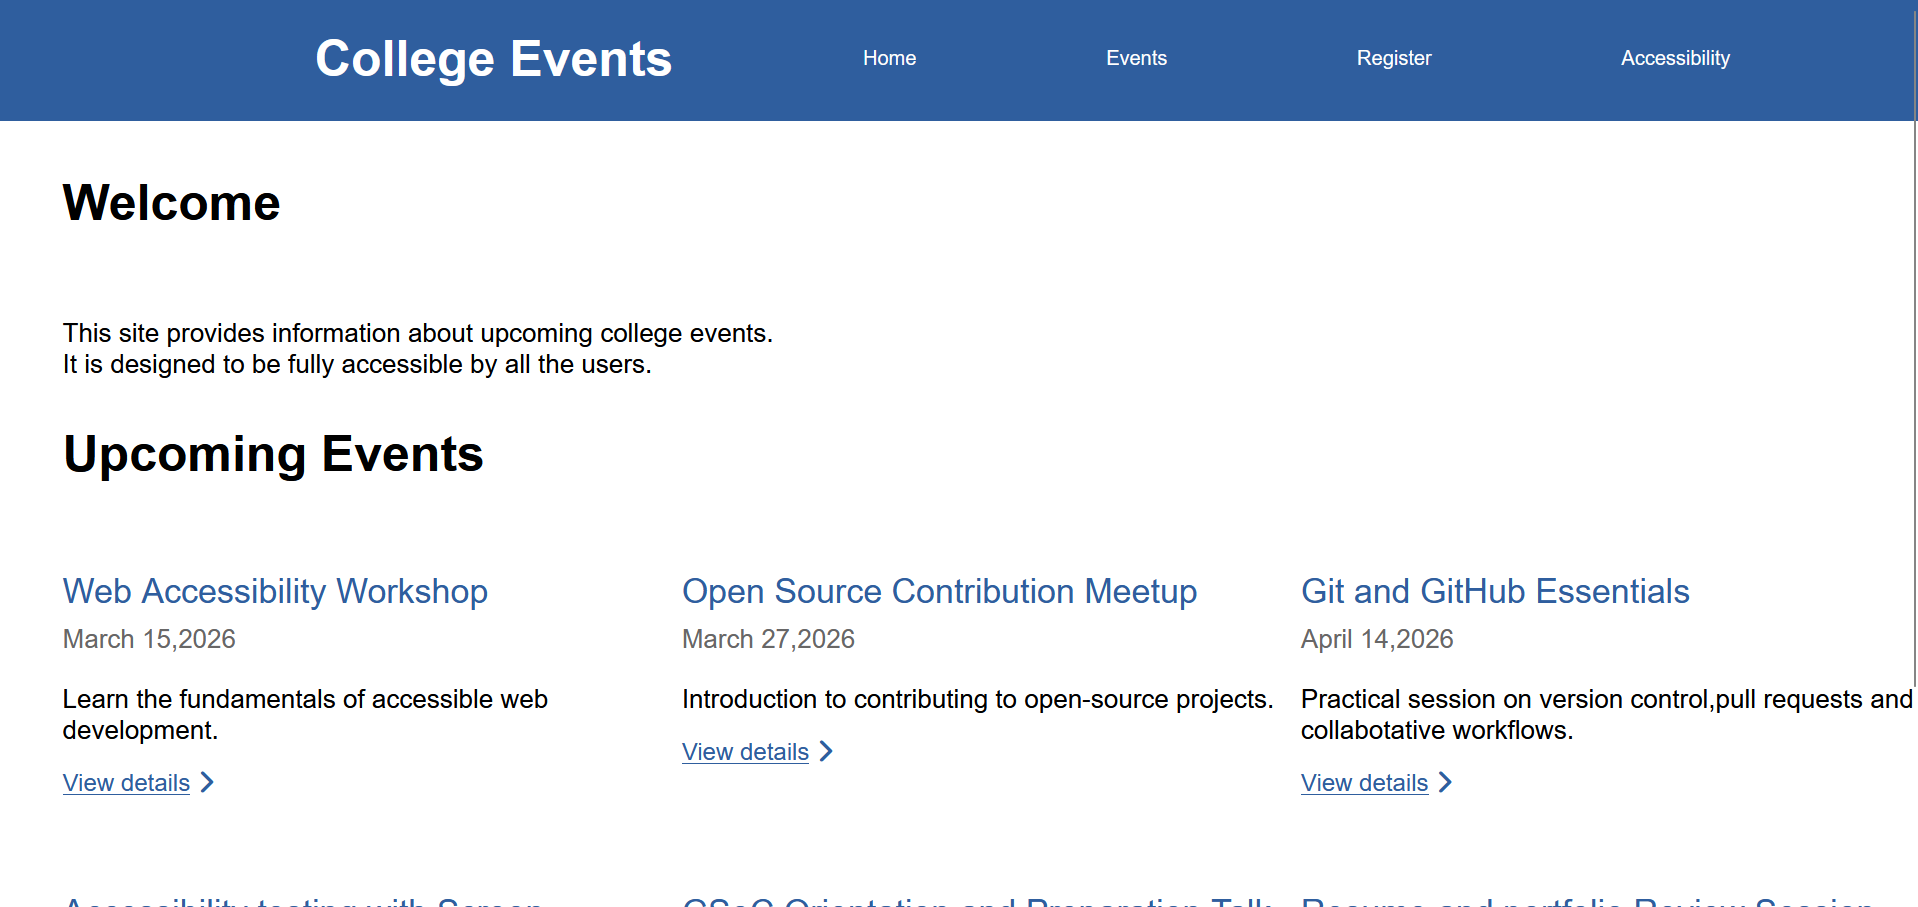
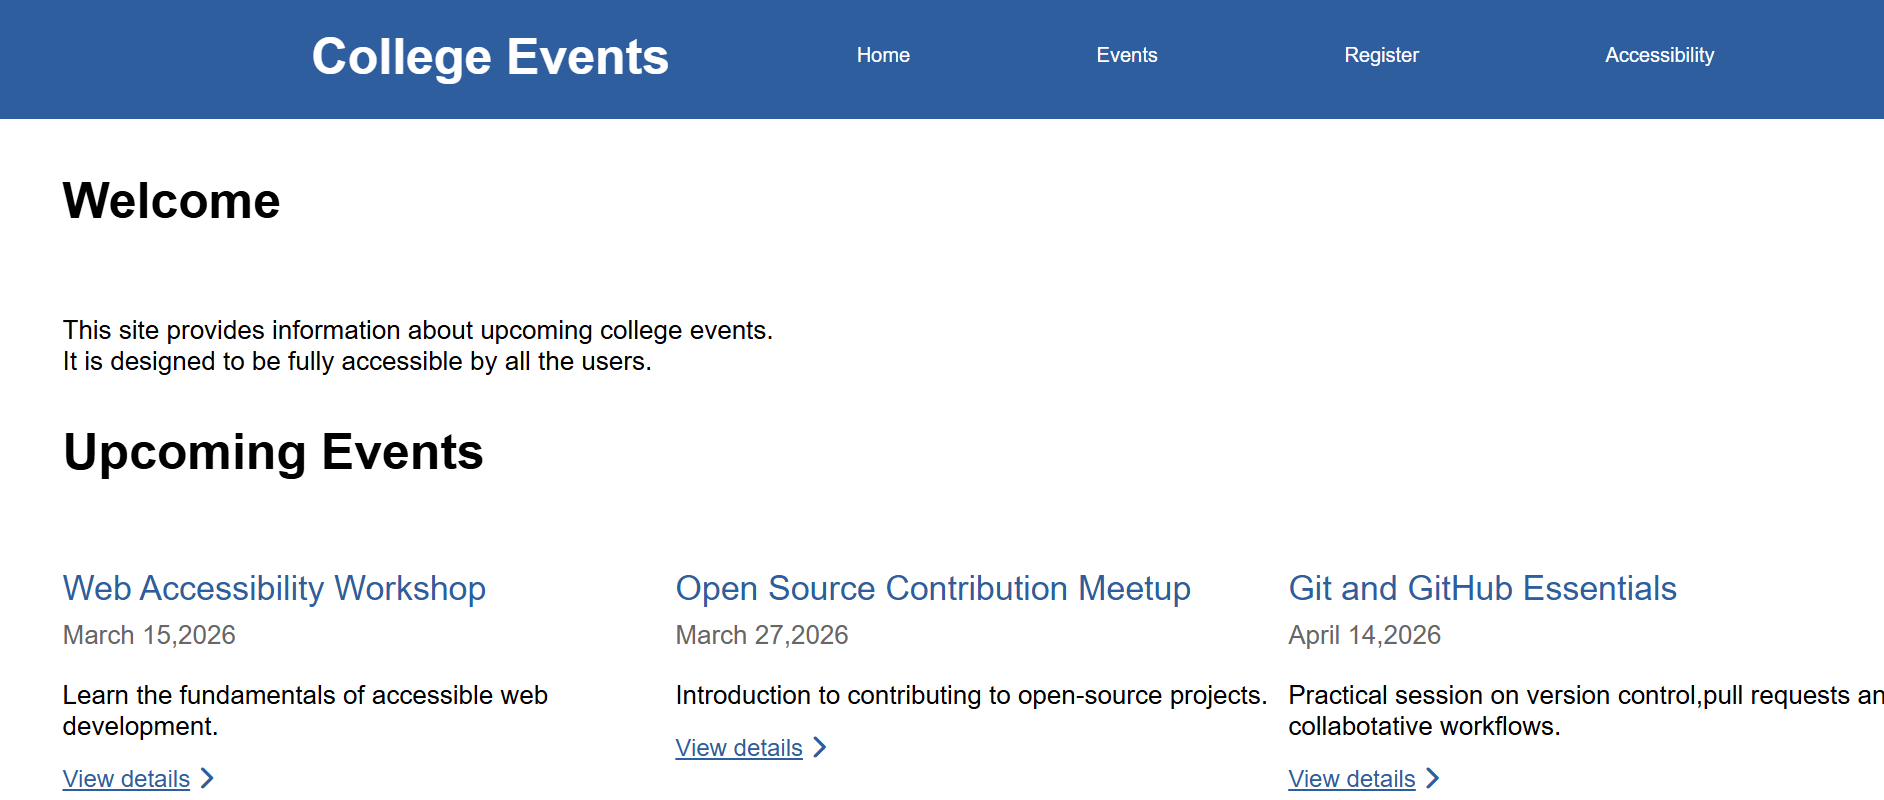
Updated Projects Section

diff --git a/index.html b/index.html
@@ -143,49 +143,123 @@
       <div class="skill">
         <h1>My Works</h1>
       </div>
-      <div class="list">
-        <div class="pro1">
-          <div class="pro-title1">
-            <h1>Personal Portfolio Website</h1>
+      <div class="project-list">
+        <div class="project1">
+          <div class="pro1"><img src="assets/project3.png" alt="Portfolio"> </div>
+          <div class="pro2">
+            <div class="pr"><i class="fa-solid fa-globe"></i>
+              <h2>Personal Portfolio Website</h2><br>
+            </div>
+            <p class="info1">A fully responsive portfolio with smooth animations and modern UI.</p><br>
+            <div class="ls">
+              <div class="ls1">
+                <p>HTML</p>
+              </div>
+              <div class="ls2">
+                <p>CSS</p>
+              </div>
+              <div class="ls3">
+                <p>JavaScript</p>
+              </div>
+            </div>
+            <div class="pro3">
+              <div class="demo1" ><a href="https://kulbakshiportfolio.netlify.app/" class=" border" target="_blank">Live Demo <i class="fa-solid fa-arrow-right"></i> </a></div>
+              <div class="demo2">
+                <a href="https://github.com/bakshikul/Personal-Portfolio.git" target="_blank"> <i class="fa-brands fa-github border"></i></a>
+                <a href="https://kulbakshiportfolio.netlify.app/" target="_blank"><i
+                    class="fa-solid fa-arrow-up-right-from-square border"></i></a>
+              </div>
+            </div>
+
           </div>
-          <div class="pro-title2">
-            <p>I created a fully responsive Personal Portfolio Website featuring <strong>Home, About, Education, Skills, and Contact </strong>sections with smooth scrolling effects, modern UI design. <p>
-          </div>
-          <div class="pro-title3"><img src="assets/project3.png" alt="Portfolio"></div>
-          <p>HTML CSS <strong>JavaScript</strong>
-          </p>
-          <a class="border" href="https://github.com/bakshikul/Personal-Portfolio.git" target="_blank"><button
-              class="border">GitHub</button></a>
         </div>
-        <div class="pro1">
-          <div class="pro-title1">
-            <h1>Tic Tac Toe Game</h1>
+        <div class="project1">
+          <div class="pro1"><img src="assets/project3.png" alt="Portfolio"> </div>
+          <div class="pro2">
+            <div class="pr"><i class="fa-solid fa-globe"></i>
+              <h2>Personal Portfolio Website</h2><br>
+            </div>
+            <p class="info1">A fully responsive portfolio with smooth animations and modern UI.</p><br>
+            <div class="ls">
+              <div class="ls1">
+                <p>HTML</p>
+              </div>
+              <div class="ls2">
+                <p>CSS</p>
+              </div>
+              <div class="ls3">
+                <p>JavaScript</p>
+              </div>
+            </div>
+            <div class="pro3">
+              <div class="demo1" ><a href="https://kulbakshiportfolio.netlify.app/" class=" border" target="_blank">Live Demo <i class="fa-solid fa-arrow-right"></i> </a></div>
+              <div class="demo2">
+                <a href="https://github.com/bakshikul/Personal-Portfolio.git" target="_blank"> <i class="fa-brands fa-github border"></i></a>
+                <a href="https://kulbakshiportfolio.netlify.app/" target="_blank"><i
+                    class="fa-solid fa-arrow-up-right-from-square border"></i></a>
+              </div>
+            </div>
+
           </div>
-          <div class="pro-title2">
-            <p>I have created a Tic-Tac-Toe game project using programming concepts and interactive game logic.
-              The project demonstrates my skills in coding, problem-solving, and user interface design.</p>
-          </div>
-          <div class="pro-title3"><img src="assets/project1.png" alt="tic tac toe"></div>
-          <p>HTML CSS <strong>JavaScript</strong>
-          </p>
-          <a class="border" href="https://github.com/bakshikul/Tic-Tac-Toe-Game.git" target="_blank"><button
-              class="border">GitHub</button></a>
         </div>
-        <div class="pro1">
-          <div class="pro-title1">
-            <h1>Accessible College Events Website</h1>
+        <div class="project1">
+          <div class="pro1"><img src="assets/project3.png" alt="Portfolio"> </div>
+          <div class="pro2">
+            <div class="pr"><i class="fa-solid fa-globe"></i>
+              <h2>Personal Portfolio Website</h2><br>
+            </div>
+            <p class="info1">A fully responsive portfolio with smooth animations and modern UI.</p><br>
+            <div class="ls">
+              <div class="ls1">
+                <p>HTML</p>
+              </div>
+              <div class="ls2">
+                <p>CSS</p>
+              </div>
+              <div class="ls3">
+                <p>JavaScript</p>
+              </div>
+            </div>
+            <div class="pro3">
+              <div class="demo1" ><a href="https://kulbakshiportfolio.netlify.app/" class=" border" target="_blank">Live Demo <i class="fa-solid fa-arrow-right"></i> </a></div>
+              <div class="demo2">
+                <a href="https://github.com/bakshikul/Personal-Portfolio.git" target="_blank"> <i class="fa-brands fa-github border"></i></a>
+                <a href="https://kulbakshiportfolio.netlify.app/" target="_blank"><i
+                    class="fa-solid fa-arrow-up-right-from-square border"></i></a>
+              </div>
+            </div>
+
           </div>
-          <div class="pro-title2">
-            <p>I created a dynamic College Events Website that helps students stay updated with upcoming events,
-              workshops, and activities on campus.</p>
-          </div>
-          <div class="pro-title3"><img src="assets/project2.png" alt="Accessible College Events"></div>
-          <p><strong>HTML CSS </strong>JavaScript
-          </p>
-          <a class="border" href="https://github.com/bakshikul/Accessible-College-Events-Website.git"
-            target="_blank"><button class="border">GitHub</button></a>
         </div>
-          
+        <div class="project1">
+          <div class="pro1"><img src="assets/project3.png" alt="Portfolio"> </div>
+          <div class="pro2">
+            <div class="pr"><i class="fa-solid fa-globe"></i>
+              <h2>Personal Portfolio Website</h2><br>
+            </div>
+            <p class="info1">A fully responsive portfolio with smooth animations and modern UI.</p><br>
+            <div class="ls">
+              <div class="ls1">
+                <p>HTML</p>
+              </div>
+              <div class="ls2">
+                <p>CSS</p>
+              </div>
+              <div class="ls3">
+                <p>JavaScript</p>
+              </div>
+            </div>
+            <div class="pro3">
+              <div class="demo1" ><a href="https://kulbakshiportfolio.netlify.app/" class=" border" target="_blank">Live Demo <i class="fa-solid fa-arrow-right"></i> </a></div>
+              <div class="demo2">
+                <a href="https://github.com/bakshikul/Personal-Portfolio.git" target="_blank"> <i class="fa-brands fa-github border"></i></a>
+                <a href="https://kulbakshiportfolio.netlify.app/" target="_blank"><i
+                    class="fa-solid fa-arrow-up-right-from-square border"></i></a>
+              </div>
+            </div>
+
+          </div>
+        </div>
       </div>
     </section>
   </main>
@@ -201,7 +275,7 @@
           </div>
           <div class="info">
             <div class="cont-sec1">
-              <form>
+              <form action="submit.html" target="_blank">
                 <input type="text" placeholder="Full Name" required />
                 <input type="email" placeholder="E-Mail" required />
                 <input type="text" placeholder="Message" required />

diff --git a/submit.html b/submit.html
@@ -1,0 +1,85 @@
+<!DOCTYPE html>
+<html lang="en">
+<head>
+  <meta charset="UTF-8">
+  <meta name="viewport" content="width=device-width, initial-scale=1.0">
+  <title>Thank You</title>
+
+  <style>
+    *{
+      margin: 0;
+      padding: 0;
+      box-sizing: border-box;
+      font-family: Arial, sans-serif;
+    }
+
+    body{
+      height: 100vh;
+      display: flex;
+      justify-content: center;
+      align-items: center;
+      background: linear-gradient(135deg, #1e3c72, #2a5298);
+    }
+
+    .thankyou-box{
+      background: white;
+      padding: 50px 40px;
+      border-radius: 15px;
+      text-align: center;
+      width: 400px;
+      box-shadow: 0 10px 25px rgba(0,0,0,0.2);
+    }
+
+    .check-icon{
+      font-size: 70px;
+      color: #28a745;
+      margin-bottom: 20px;
+    }
+
+    h1{
+      color: #333;
+      margin-bottom: 15px;
+    }
+
+    p{
+      color: #666;
+      font-size: 16px;
+      margin-bottom: 25px;
+      line-height: 1.5;
+    }
+
+    .home-btn{
+      display: inline-block;
+      padding: 12px 25px;
+      background: #2a5298;
+      color: white;
+      text-decoration: none;
+      border-radius: 8px;
+      transition: 0.3s;
+    }
+
+    .home-btn:hover{
+      background: #1e3c72;
+    }
+  </style>
+</head>
+
+<body>
+
+  <div class="thankyou-box">
+    <div class="check-icon">✔</div>
+
+    <h1>Thank You!</h1>
+
+    <p>
+      Your feedback has been submitted successfully.
+      I will get back to you soon.
+    </p>
+
+    <a href="index.html" class="home-btn">
+      Back to Home
+    </a>
+  </div>
+
+</body>
+</html>